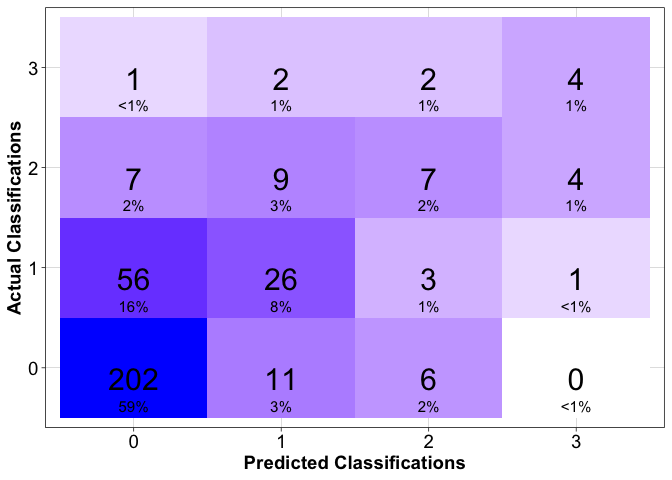
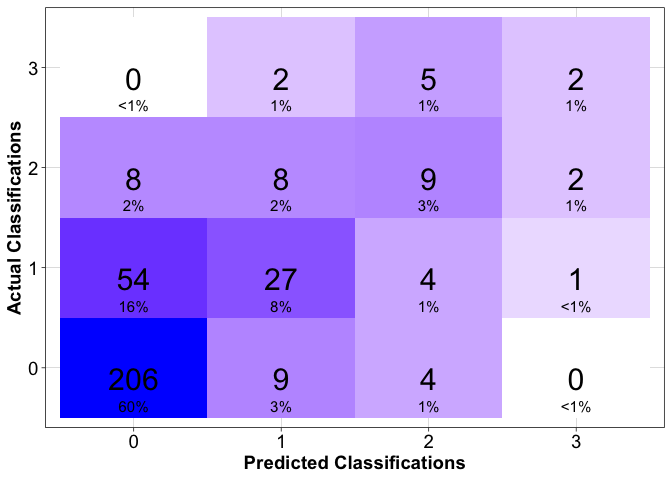
Adding more generic tools for testing configurations and model io

diff --git a/README.md b/README.md
@@ -37,6 +37,8 @@ running the psptools software:
 
 - [stats](https://CRAN.R-project.org/package=stats)
 
+- [readr](https://CRAN.R-project.org/package=readr)
+
 ### Installation
 
     remotes::install_github("BigelowLab/psptools")
@@ -213,20 +215,20 @@ str(model_input)
 
     ## List of 2
     ##  $ train:List of 7
-    ##   ..$ labels         : num [1:7421, 1:4] 1 1 1 0 0 1 1 1 1 0 ...
+    ##   ..$ labels         : num [1:7421, 1:4] 1 1 1 1 1 1 0 1 1 1 ...
     ##   ..$ image          : num [1:7421, 1:24] 0 0 0 0 0 0 0 0 0 0 ...
-    ##   ..$ classifications: num [1:7421] 0 0 0 3 2 0 0 0 0 3 ...
-    ##   ..$ toxicity       : num [1:7421] 0.579 0 0 83.957 45.657 ...
-    ##   ..$ locations      : chr [1:7421] "PSP15.25" "PSP10.07" "PSP27.37" "PSP16.321" ...
-    ##   ..$ dates          : num [1:7421] 19116 16666 16664 17309 17294 ...
+    ##   ..$ classifications: num [1:7421] 0 0 0 0 0 0 1 0 0 0 ...
+    ##   ..$ toxicity       : num [1:7421] 0 0 0.358 0 1.372 ...
+    ##   ..$ locations      : chr [1:7421] "PSP15.25" "PSP24.08" "PSP16.41" "PSP14.17" ...
+    ##   ..$ dates          : num [1:7421] 18436 18841 19165 17316 18470 ...
     ##   ..$ scaling_factors: NULL
     ##  $ test :List of 7
-    ##   ..$ labels         : num [1:341, 1:4] 1 1 1 1 1 1 1 0 1 1 ...
-    ##   ..$ image          : num [1:341, 1:24] 0 0 0 0 0 0 0 0 0 0 ...
-    ##   ..$ classifications: num [1:341] 0 0 0 0 0 0 0 1 0 0 ...
-    ##   ..$ toxicity       : num [1:341] 6.502 3.345 0.608 0.169 4.086 ...
-    ##   ..$ locations      : chr [1:341] "PSP26.07" "PSP15.25" "PSP12.28" "PSP27.05" ...
-    ##   ..$ dates          : num [1:341] 19906 19858 19934 19871 19898 ...
+    ##   ..$ labels         : num [1:341, 1:4] 1 0 0 1 1 1 1 0 1 1 ...
+    ##   ..$ image          : num [1:341, 1:24] 0 0 0 0 0.377 ...
+    ##   ..$ classifications: num [1:341] 0 2 1 0 0 0 0 1 0 0 ...
+    ##   ..$ toxicity       : num [1:341] 7.33 71.69 12.76 5.69 4.67 ...
+    ##   ..$ locations      : chr [1:341] "PSP15.25" "PSP11.115" "PSP10.145" "PSP12.28" ...
+    ##   ..$ dates          : num [1:341] 19913 19856 19898 19904 19905 ...
     ##   ..$ scaling_factors: NULL
 
 ### Model training and prediction
@@ -248,18 +250,18 @@ forecast_list
 
     ## # A tibble: 341 × 13
     ## # Rowwise: 
-    ##    version location date       class_bins forecast_start_date forecast_end_date
-    ##    <chr>   <chr>    <date>     <chr>      <date>              <date>           
-    ##  1 v0.3.1  PSP26.07 2024-07-02 0,10,30,80 2024-07-06          2024-07-12       
-    ##  2 v0.3.1  PSP15.25 2024-05-15 0,10,30,80 2024-05-19          2024-05-25       
-    ##  3 v0.3.1  PSP12.28 2024-07-30 0,10,30,80 2024-08-03          2024-08-09       
-    ##  4 v0.3.1  PSP27.05 2024-05-28 0,10,30,80 2024-06-01          2024-06-07       
-    ##  5 v0.3.1  PSP10.29 2024-06-24 0,10,30,80 2024-06-28          2024-07-04       
-    ##  6 v0.3.1  PSP11.1  2024-07-01 0,10,30,80 2024-07-05          2024-07-11       
-    ##  7 v0.3.1  PSP21.09 2024-08-07 0,10,30,80 2024-08-11          2024-08-17       
-    ##  8 v0.3.1  PSP10.33 2024-07-23 0,10,30,80 2024-07-27          2024-08-02       
-    ##  9 v0.3.1  PSP25.06 2024-06-25 0,10,30,80 2024-06-29          2024-07-05       
-    ## 10 v0.3.1  PSP15.2  2024-07-02 0,10,30,80 2024-07-06          2024-07-12       
+    ##    version location  date       class_bins forecast_start_date forecast_end_date
+    ##    <chr>   <chr>     <date>     <chr>      <date>              <date>           
+    ##  1 v0.3.1  PSP15.25  2024-07-09 0,10,30,80 2024-07-13          2024-07-19       
+    ##  2 v0.3.1  PSP11.115 2024-05-13 0,10,30,80 2024-05-17          2024-05-23       
+    ##  3 v0.3.1  PSP10.145 2024-06-24 0,10,30,80 2024-06-28          2024-07-04       
+    ##  4 v0.3.1  PSP12.28  2024-06-30 0,10,30,80 2024-07-04          2024-07-10       
+    ##  5 v0.3.1  PSP10.2   2024-07-01 0,10,30,80 2024-07-05          2024-07-11       
+    ##  6 v0.3.1  PSP11.17  2024-05-29 0,10,30,80 2024-06-02          2024-06-08       
+    ##  7 v0.3.1  PSP12.003 2024-07-15 0,10,30,80 2024-07-19          2024-07-25       
+    ##  8 v0.3.1  PSP10.33  2024-06-24 0,10,30,80 2024-06-28          2024-07-04       
+    ##  9 v0.3.1  PSP24.08  2024-05-27 0,10,30,80 2024-05-31          2024-06-06       
+    ## 10 v0.3.1  PSP25.06  2024-05-21 0,10,30,80 2024-05-25          2024-05-31       
     ## # ℹ 331 more rows
     ## # ℹ 7 more variables: actual_class <dbl>, actual_toxicity <dbl>, prob_0 <dbl>,
     ## #   prob_1 <dbl>, prob_2 <dbl>, prob_3 <dbl>, predicted_class <dbl>
@@ -275,7 +277,7 @@ metrics
     ## # A tibble: 1 × 10
     ##      tp    fp    tn    fn accuracy cl_accuracy   f_1 precision sensitivity
     ##   <int> <int> <int> <int>    <dbl>       <dbl> <dbl>     <dbl>       <dbl>
-    ## 1     4     5   327     5    0.701       0.971 0.444     0.444       0.444
+    ## 1     2     3   329     7    0.716       0.971 0.286       0.4       0.222
     ## # ℹ 1 more variable: specificity <dbl>
 
 A confusion matrix can help to visualize multiclass acurracy
